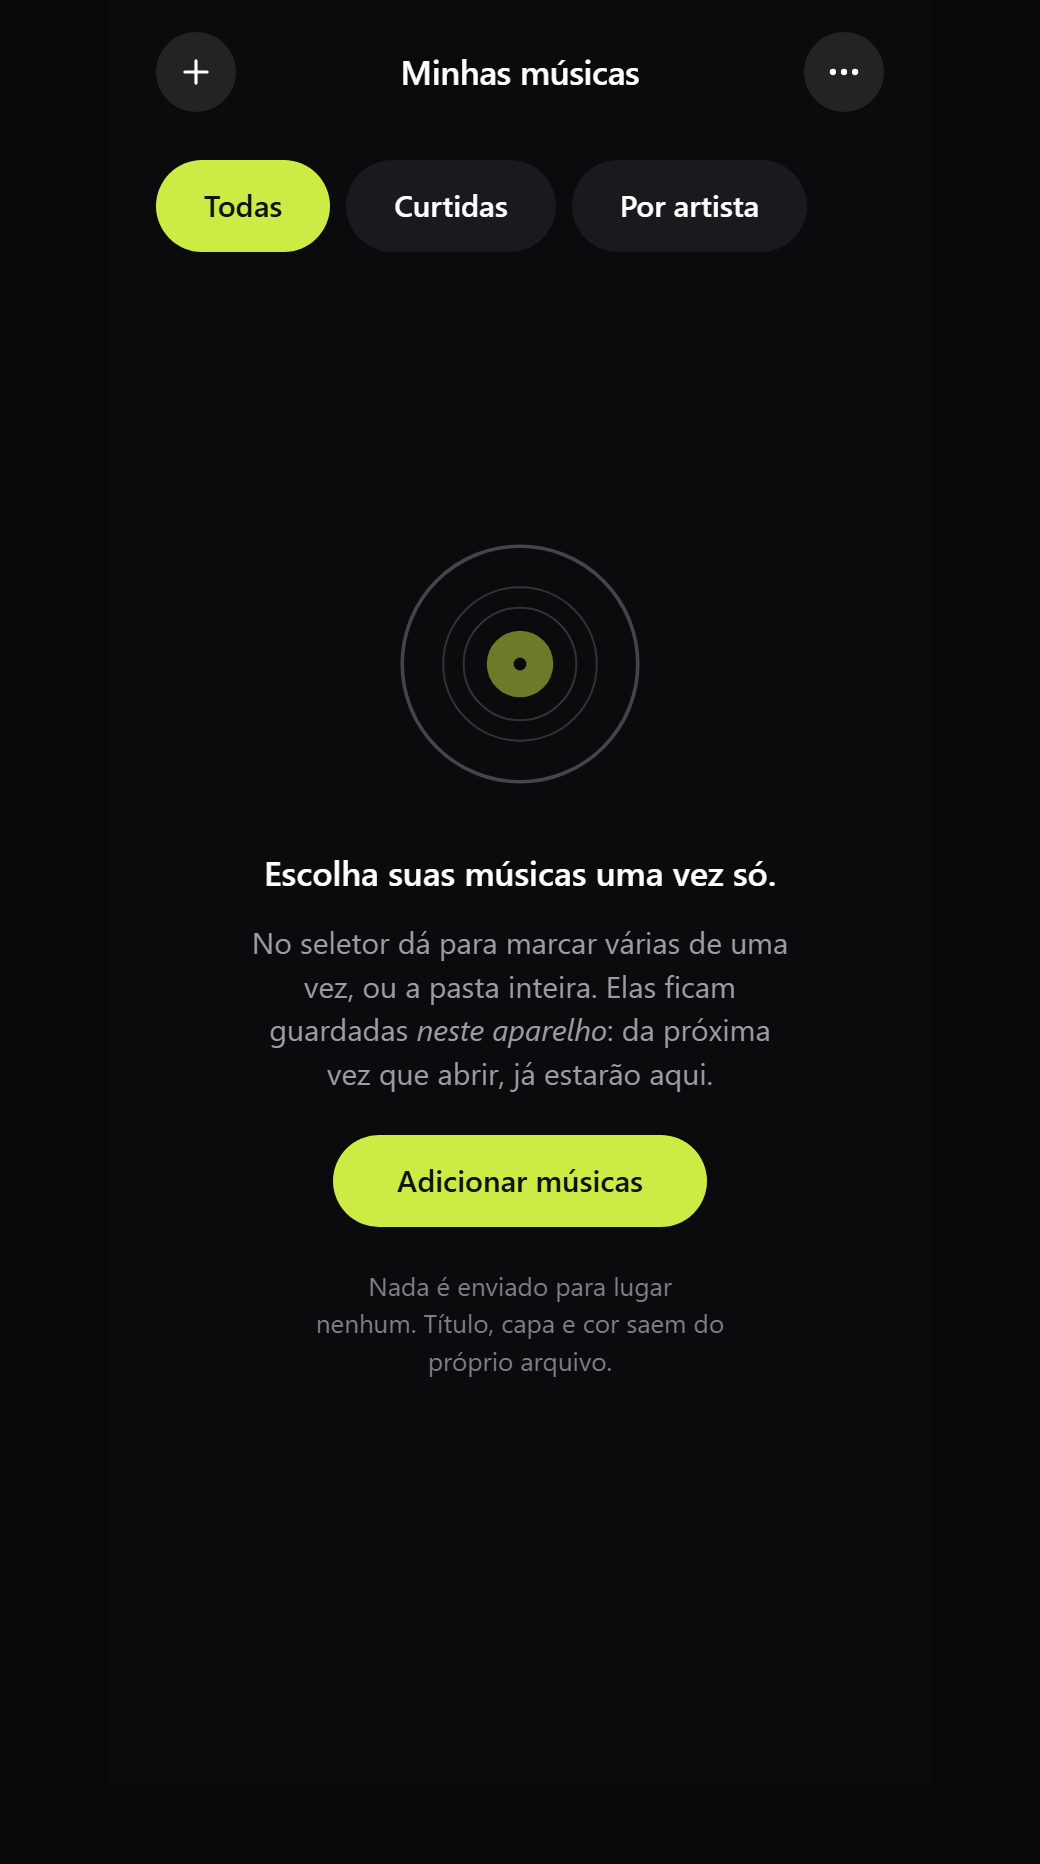
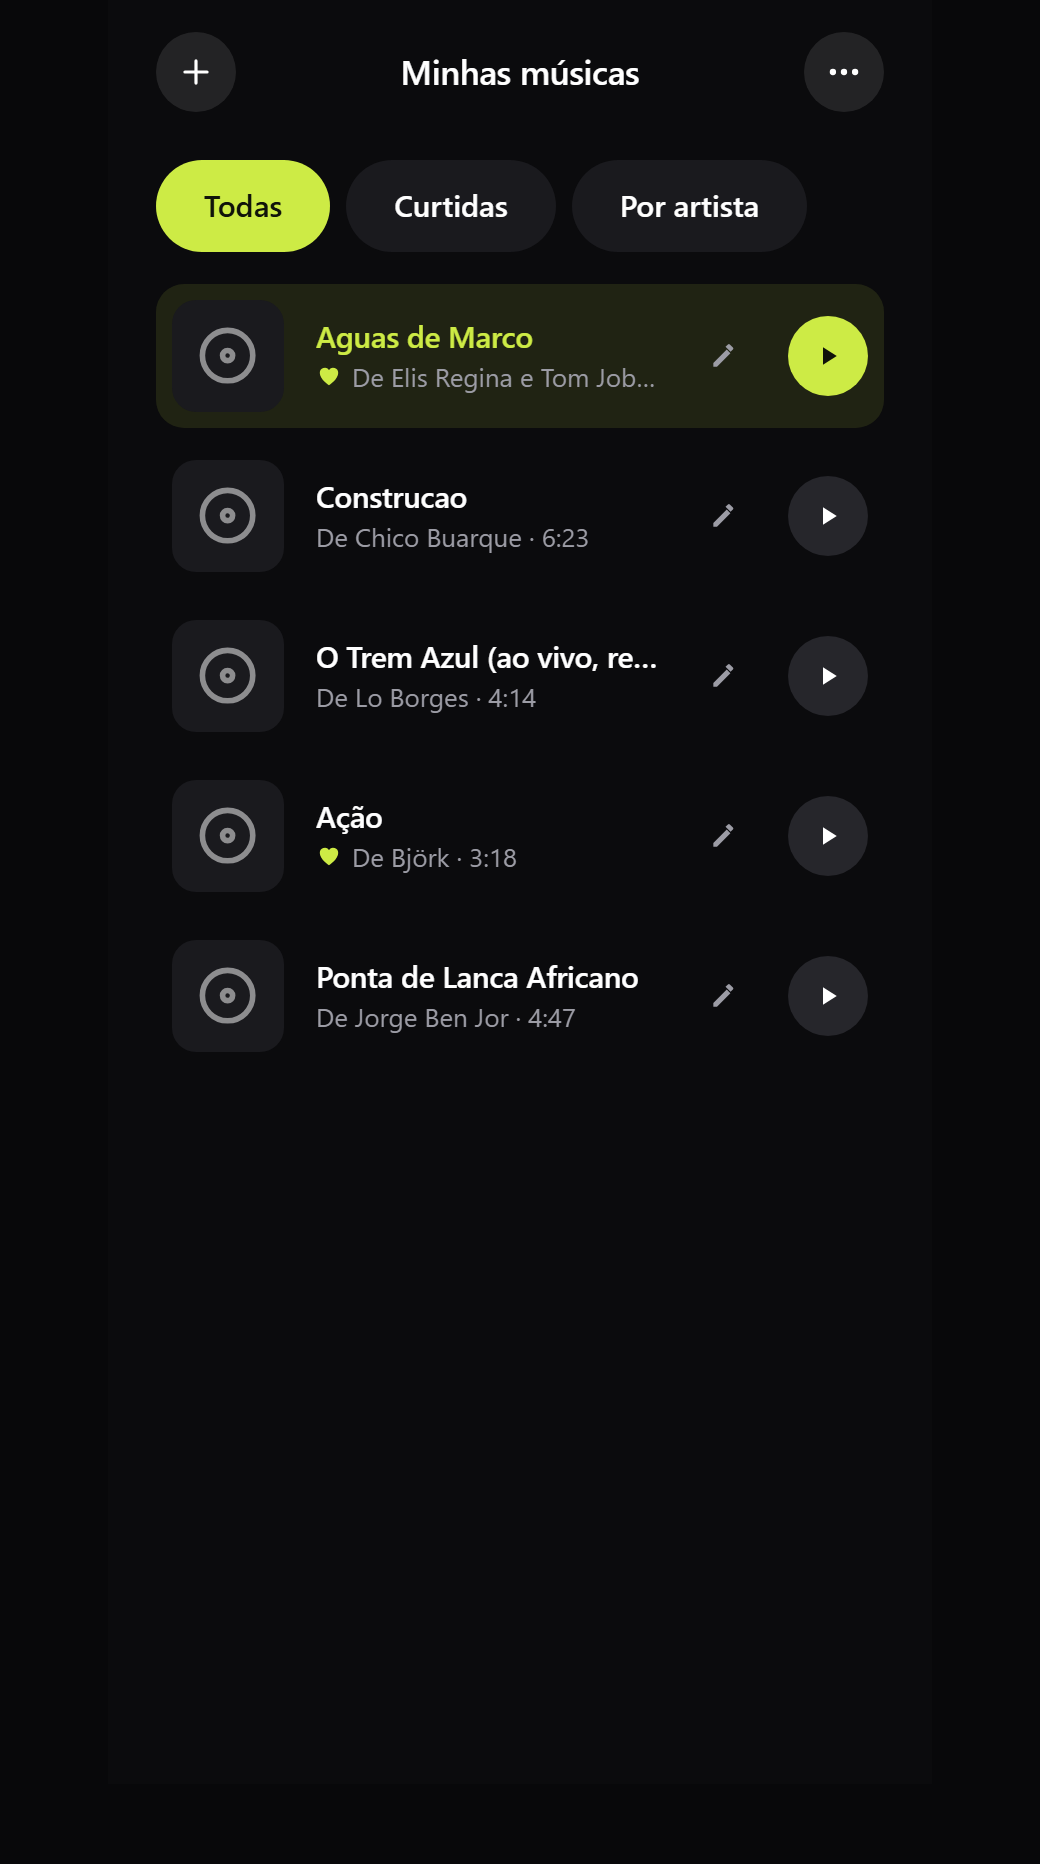
Diagnostico no menu, pausar ao tirar o fone, e capturas que existem
O DIAGNOSTICO existe por uma razao pratica. O card da tela de bloqueio
depende de tres pecas que so existem do lado Android — permissao de
notificacao, servico de primeiro plano, sessao de midia — e quando uma
falha, ela falha CALADA: some o card e nada diz por que. Sao tres
consertos diferentes, e sem saber qual, a unica saida seria compilar uma
versao nova a cada palpite.

O relatorio junta o que so o Java sabe (permissao, servico, sessao, versao
do Android, aparelho) com o que so a pagina sabe (se a ponte existe, se
algum recado saiu, se a capa converteu, se o web audio subiu). Sai por
alert de proposito: no aplicativo isso abre um dialogo nativo, e ver esse
dialogo ja e meia resposta — prova que o caminho de volta funciona.

O item fica escondido no navegador, onde nao ha o que diagnosticar.

TIRAR O FONE agora pausa, por ACTION_AUDIO_BECOMING_NOISY. Isto NAO
repete o erro da versao passada: nao e foco de audio, e um aviso de que a
saida de som mudou, e a unica coisa que faco com ele e pausar. Se o
WebView tambem pausar, pausar duas vezes nao faz mal — ao contrario de
disputar foco, que fazia.

As tres imagens do README apontavam para arquivos que NAO EXISTEM
(desktop-escuro.png, desktop-claro.png, celular.png) enquanto a pasta
tinha outros nomes. Estavam quebradas na pagina do projeto. Agora
apontam para arquivos de verdade, e as capturas mostram a biblioteca com
musica dentro em vez de vazia — que e como o aplicativo se parece em uso,
[…]

diff --git a/app.js b/app.js
@@ -734,6 +734,41 @@ window.__midia = function (qual, argumento) {
   contarAoSistema(true);
 };
 
+/* ---- diagnóstico ----
+   O card da tela de bloqueio é feito de peças que só existem do lado
+   Android, e quando uma falha ela falha CALADA: some o card e ninguém diz
+   por quê. Metade da resposta só o Java sabe (permissão, serviço, sessão);
+   a outra metade só a página sabe (se a ponte existe, se algo foi mandado,
+   se o áudio subiu). Aqui as duas se juntam.
+
+   Sai por window.alert de propósito: no aplicativo o diálogo é nativo, e
+   ver esse diálogo já é meia resposta — prova que a ponte de volta funciona. */
+function relatorio() {
+  const p = ponteDoSistema();
+  const linhas = [];
+
+  if (p && typeof p.diagnostico === 'function') {
+    try { linhas.push(p.diagnostico()); } catch (_) { linhas.push('o Java não respondeu'); }
+  } else {
+    linhas.push('Rodando no NAVEGADOR, não no aplicativo.\n' +
+                'A tela de bloqueio aqui é do navegador, não da Vitrola.\n');
+  }
+
+  linhas.push('ponte com o sistema: ' + (p ? 'existe' : 'não existe'));
+  linhas.push('recados já enviados: ' + (ultimoRecado ? 'sim' : 'NENHUM'));
+
+  const f = faixaAtual();
+  linhas.push('faixa atual: ' + (f ? f.tags.titulo : 'nenhuma'));
+  linhas.push('capa para o card: ' + (!f ? '—'
+    : f.capaAviso ? 'pronta' : (f.capaURL ? 'a faixa tem capa, mas não converteu' : 'a faixa não tem capa')));
+  linhas.push('fila: ' + estado.fila.length + ' faixas');
+  linhas.push('som: ' + (som.paused ? 'pausado' : 'tocando') +
+              (som.src ? '' : ', sem arquivo carregado'));
+  linhas.push('web audio: ' + (ac ? 'ligado' : (audioDesistiu ? 'DESISTIU' : 'ainda não')));
+
+  return linhas.join('\n');
+}
+
 
 /* ===========================================================================
    9. TELAS E DESENHO
@@ -1252,6 +1287,15 @@ $('btn-limpar').addEventListener('click', async () => {
   pintarLista(); pintarAgora(); pintarBotaoTocar(); pintarProgresso();
   contarAoSistema(true);          // sem faixa, isso tira o card da tela de bloqueio
   avisar('Biblioteca esvaziada.');
+});
+
+/* Só existe dentro do aplicativo: no navegador não há tela de bloqueio
+   própria para diagnosticar, e o item viraria enfeite. */
+mostrar($('btn-diagnostico'), !!ponteDoSistema());
+$('btn-diagnostico').addEventListener('click', () => {
+  fecharMenu();
+  const texto = relatorio();
+  try { window.alert(texto); } catch (_) { avisar(texto.replace(/\n/g, ' · ')); }
 });
 
 /* --- progresso --- */

diff --git a/testes/testar.js b/testes/testar.js
@@ -74,7 +74,7 @@ vm.createContext(ctxGlobal);
 let src = fs.readFileSync(ARQ, 'utf8');
 src += `
 ;globalThis.__t = { lerEtiquetas, lerID3v2, lerID3v1, sincroSeguro, tempo, decodificar,
-                    contarEstranhos, estado, som, contarAoSistema, faixaAtual };`;
+                    contarEstranhos, estado, som, contarAoSistema, faixaAtual, relatorio };`;
 vm.runInContext(src, ctxGlobal, { filename: 'app.js' });
 const T = ctxGlobal.__t;
 
@@ -354,6 +354,41 @@ console.log('\n[9] a ponte da tela de bloqueio');
   ok(!/case 'abaixar'|case 'levantar'/.test(fonte),
      'nao ha comando de foco de audio na ponte');
   ok(!/requestAudioFocus/.test(fonte), 'e o app nao pede foco de audio');
+}
+
+console.log('\n[10] o diagnostico');
+{
+  // Um diagnostico que quebra e pior que nenhum: quebra justamente na hora
+  // em que algo ja esta errado, e ainda esconde o que era.
+  ctxGlobal.window.Sistema = null;
+  let semPonte = null;
+  try { semPonte = T.relatorio(); } catch (e) { semPonte = 'LANCOU: ' + e.message; }
+  ok(typeof semPonte === 'string' && semPonte.indexOf('LANCOU') < 0,
+     'sem ponte nenhuma, nao lanca');
+  ok(/NAVEGADOR/.test(semPonte), 'e diz que esta no navegador, nao no aplicativo');
+
+  // o Java existindo mas explodindo tambem nao pode derrubar
+  ctxGlobal.window.Sistema = {
+    midia: () => {},
+    diagnostico: () => { throw new Error('boom'); },
+  };
+  let comJavaQuebrado = null;
+  try { comJavaQuebrado = T.relatorio(); } catch (e) { comJavaQuebrado = 'LANCOU: ' + e.message; }
+  ok(typeof comJavaQuebrado === 'string' && comJavaQuebrado.indexOf('LANCOU') < 0,
+     'o Java explodindo nao derruba o relatorio');
+  ok(/n.o respondeu/.test(comJavaQuebrado), 'e o relatorio conta que ele explodiu');
+
+  // e o caso normal
+  ctxGlobal.window.Sistema = {
+    midia: () => {},
+    diagnostico: () => 'Vitrola 2.1.2\npermissao de notificacao: concedida',
+  };
+  const bom = T.relatorio();
+  ok(/permissao de notificacao: concedida/.test(bom), 'repassa o que o Java disse');
+  ok(/ponte com o sistema: existe/.test(bom), 'e soma o que so a pagina sabe');
+  ok(/fila: \d+ faixas/.test(bom), 'inclusive o tamanho da fila');
+
+  ctxGlobal.window.Sistema = null;
 }
 
 console.log('\n' + (falhas === 0 ? 'TUDO PASSOU' : `${falhas} FALHA(S)`));

diff --git a/index.html b/index.html
@@ -57,6 +57,11 @@
       <button type="button" class="menu-item" id="btn-embaralhar-tudo">Tocar tudo embaralhado</button>
       <button type="button" class="menu-item" id="btn-tema">Tema: <span id="rotulo-tema">escuro</span></button>
       <button type="button" class="menu-item" id="btn-limpar">Esvaziar a biblioteca</button>
+      <!-- Só aparece dentro do aplicativo Android. A tela de bloqueio é
+           feita de peças que só existem lá, e quando uma falha ela falha
+           calada: isto faz o aplicativo dizer em que pé está, em vez de
+           adivinharmos por tentativa. -->
+      <button type="button" class="menu-item" id="btn-diagnostico" hidden>Diagnóstico</button>
     </div>
 
     <nav class="chips" id="chips" aria-label="Filtrar">

diff --git a/README.md b/README.md
@@ -23,11 +23,11 @@ O aplicativo Android roda **inteiro dentro do aparelho** e **não pede permissã
 
 No celular, o navegador oferece instalar na tela inicial. Aí ela abre em tela cheia, funciona sem rede e aparece na folha de compartilhamento junto dos outros aplicativos.
 
-![A Vitrola no tema escuro, com a fila vazia](capturas/desktop-escuro.png)
+![A biblioteca no tema escuro: capa, título, artista, o lápis para corrigir o nome e o botão de tocar](capturas/biblioteca.png)
 
-| Tema claro | No celular |
+| Tema claro | Tocando |
 |---|---|
-| ![Tema claro](capturas/desktop-claro.png) | ![No celular](capturas/celular.png) |
+| ![A mesma biblioteca no tema claro](capturas/claro.png) | ![A tela de reprodução, com a capa e a letra](capturas/tocando.png) |
 
 | Arquivo | O que é |
 |---|---|
@@ -114,6 +114,14 @@ O `<audio>` continua morando no JavaScript; o Java não toca em som nenhum. O qu
 > Quem é dono do som é dono do foco. Há um teste que falha se `requestAudioFocus` voltar ao código, porque esse é o tipo de coisa que se reintroduz por boa intenção.
 
 > A ponte tem freio: o `timeupdate` dispara quatro vezes por segundo, e mandar tudo isso seria desperdício. A barra da tela de bloqueio anda sozinha, extrapolando da posição e da velocidade — só preciso corrigir de cinco em cinco segundos, e na hora exata em que algo muda de repente.
+
+### Um diagnóstico, porque o Android falha calado
+
+No menu do aplicativo há um item **Diagnóstico** — escondido no navegador, onde não faria sentido.
+
+Ele existe por uma razão prática: o card da tela de bloqueio depende de três peças que só existem do lado Android — a permissão de notificação, o serviço de primeiro plano e a sessão de mídia — e quando uma falha, ela falha *em silêncio*. Some o card, e nada diz por quê. São três consertos diferentes, e sem saber qual, a única saída seria compilar uma versão nova a cada palpite.
+
+O relatório junta o que só o Java sabe (permissão, serviço, sessão, versão do Android) com o que só a página sabe (se a ponte existe, se algum recado saiu, se o áudio subiu). Sai por `alert`, de propósito: no aplicativo isso abre um diálogo nativo, e **ver esse diálogo já é meia resposta** — prova que o caminho de volta do Java para a página funciona.
 
 ### Consertar o nome na mão
 
